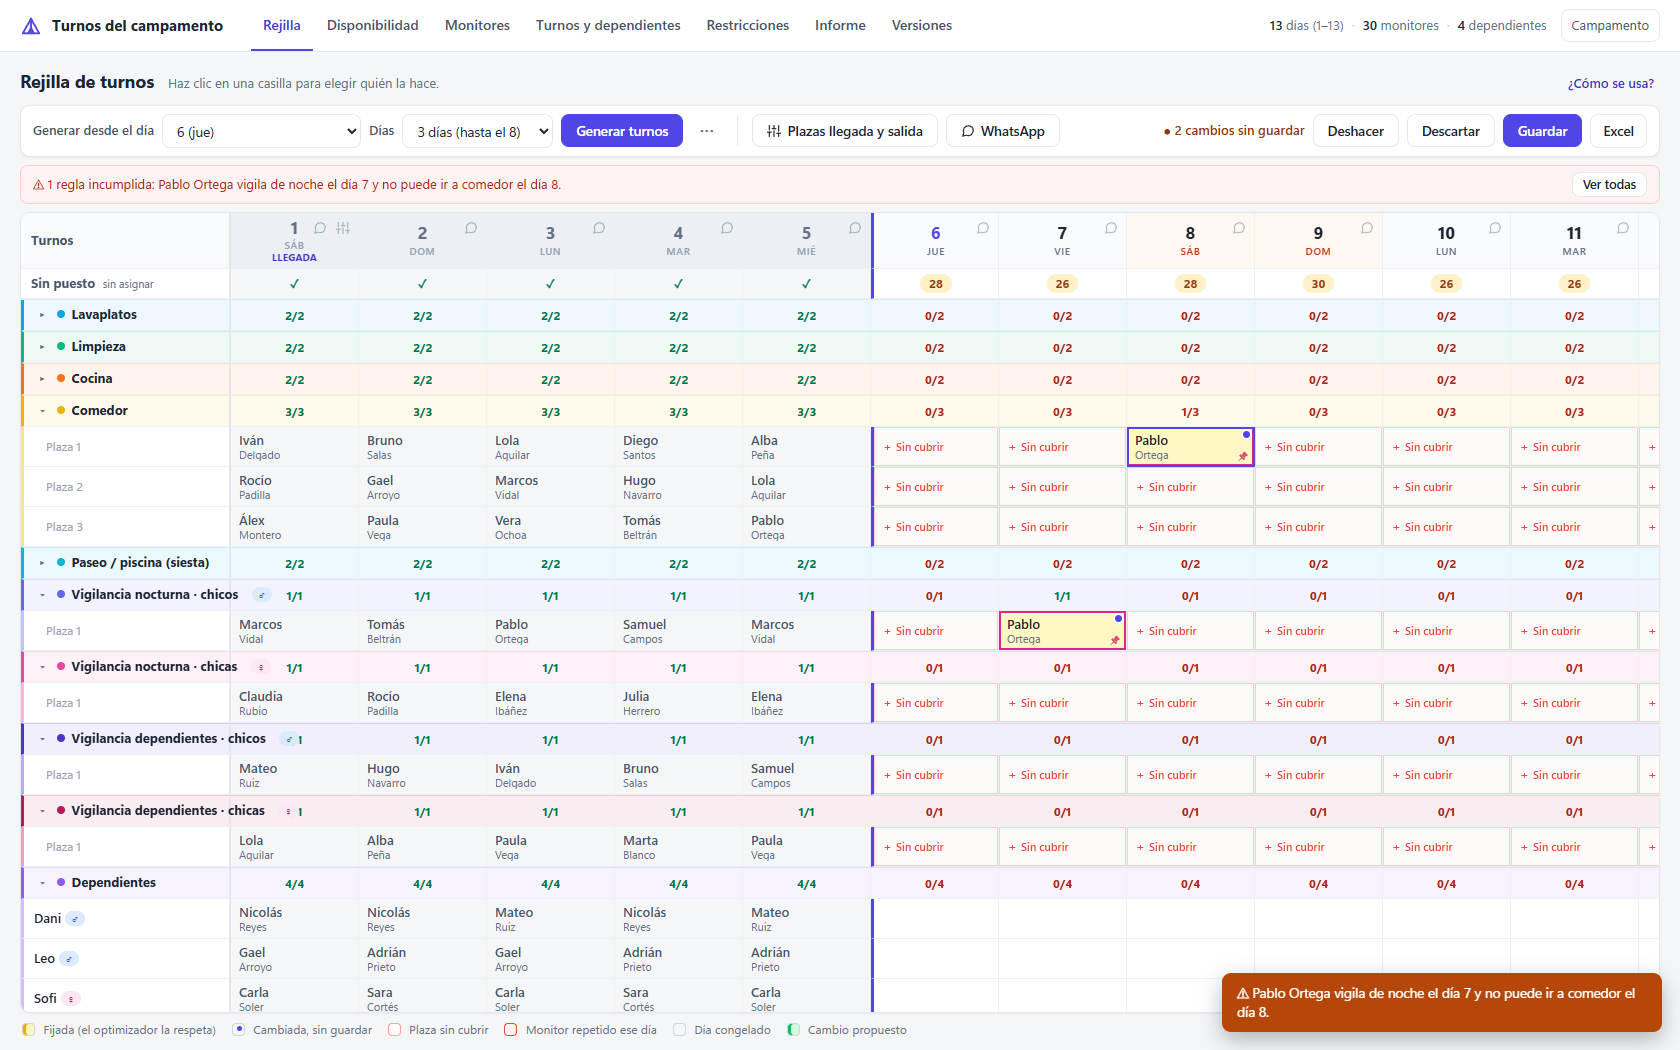
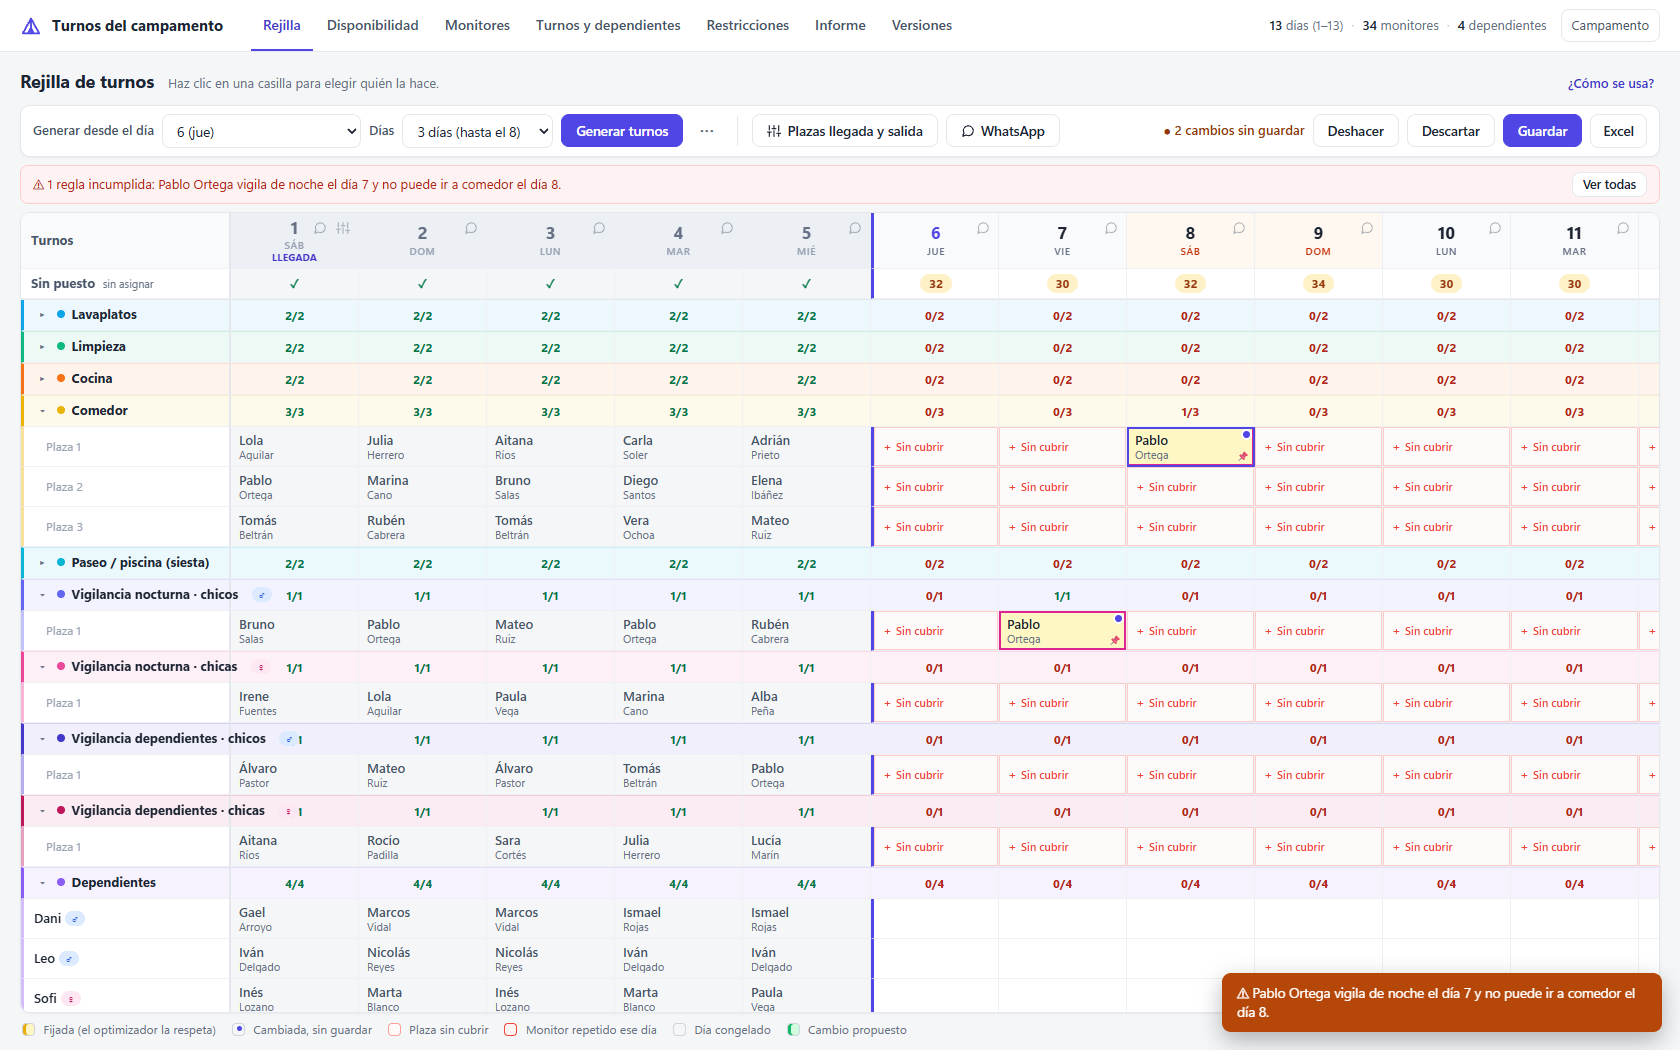
Demo con 34 monitores, capturas y README

diff --git a/turnos/demo.py b/turnos/demo.py
@@ -21,9 +21,9 @@ RUTA_DEMO = "datos/demo/campamento.db"
 ANIO, MES, DIA_INICIO, DIA_FIN = 2026, 8, 1, 13
 
 CHICOS = ["Mateo Ruiz", "Hugo Navarro", "Iván Delgado", "Pablo Ortega", "Diego Santos", "Marcos Vidal",
-          "Adrián Prieto", "Rubén Cabrera", "Óscar Molina", "Nicolás Reyes", "Samuel Campos", "Tomás Beltrán", "Gael Arroyo", "Bruno Salas"]
+          "Adrián Prieto", "Rubén Cabrera", "Óscar Molina", "Nicolás Reyes", "Samuel Campos", "Tomás Beltrán", "Gael Arroyo", "Bruno Salas", "Ismael Rojas", "Álvaro Pastor"]
 CHICAS = ["Lucía Marín", "Carla Soler", "Irene Fuentes", "Marta Blanco", "Julia Herrero", "Alba Peña",
-          "Sara Cortés", "Noa Gallego", "Elena Ibáñez", "Paula Vega", "Claudia Rubio", "Inés Lozano", "Vera Ochoa", "Lola Aguilar"]
+          "Sara Cortés", "Noa Gallego", "Elena Ibáñez", "Paula Vega", "Claudia Rubio", "Inés Lozano", "Vera Ochoa", "Lola Aguilar", "Marina Cano", "Aitana Ríos"]
 FINDE = [("Álex Montero", "M"), ("Rocío Padilla", "F")]  # solo vienen los fines de semana
 NUEVOS = {"Samuel Campos", "Tomás Beltrán", "Inés Lozano", "Claudia Rubio"}
 LIMITADOS = {"Óscar Molina", "Noa Gallego"}  # vienen pocos días: mejor no darles descanso

diff --git a/README.md b/README.md
@@ -26,7 +26,7 @@ pip install -r requirements.txt
 python -m turnos.demo        # crea un campamento inventado y abre la web en http://127.0.0.1:5000
 ```
 
-Crea `datos/demo/campamento.db` con 30 monitores, 4 acampados dependientes y 13 días
+Crea `datos/demo/campamento.db` con 34 monitores, 4 acampados dependientes y 13 días
 **inventados** (nada de personas reales), con los 5 primeros días ya generados. Después
 solo hay que pulsar **Generar turnos** para que el optimizador rellene el resto
 (unos segundos; todo el campamento tarda cerca de un minuto con el solver gratuito HiGHS).
@@ -227,6 +227,10 @@ y los días en columnas, leída directamente de la hoja `TURNOS`:
   congelado). «Descartar» no toca el Excel.
   El selector **Días** limita cuántos días se generan (p. ej. 3 días desde el 5 = 5, 6 y 7);
   los posteriores no se tocan y no entran en el modelo.
+- **Informe:** esfuerzo, descansos y días de dependiente por monitor, y los descansos sobre los días
+  disponibles. Cada monitor (salvo los de fin de semana) descansa entre el 30 % y el 50 % de sus días
+  (regla `descanso_porcentaje`, parámetros `DESCANSO_MIN_PCT` y `DESCANSO_MAX_PCT`); si los datos no
+  dejan cumplirlo, el informe marca en rojo a quién afecta.
 - **Disponibilidad:** tabla de colores (verde viene, rojo no viene, amarillo descanso
   impuesto). Se elige un pincel y se pinta con clic o arrastrando; clic en un nombre
   pinta su fila y clic en un día pinta la columna (solo los monitores filtrados).
@@ -341,7 +345,7 @@ turnos/
 │   ├── objetivo.py           # suma ponderada de las penalizaciones registradas por los módulos
 │   └── restricciones/        # una restricción = un módulo enchufable (ver §7.1)
 │       ├── base.py             # decorador @restriccion, REGISTRO, registrar_penalizacion()
-│       └── r01_...r20_*.py     # las reglas activables desde la hoja RESTRICCIONES
+│       └── r01_...r21_*.py     # las reglas activables desde la hoja RESTRICCIONES
 ├── resolver.py             # llama al solver (nombre/tiempo/gap siempre desde CONFIG), extrae Solucion
 ├── validar.py              # validación previa en lenguaje llano + diagnóstico IIS si es infactible
 ├── webapp/                 # interfaz web local, ver más abajo
